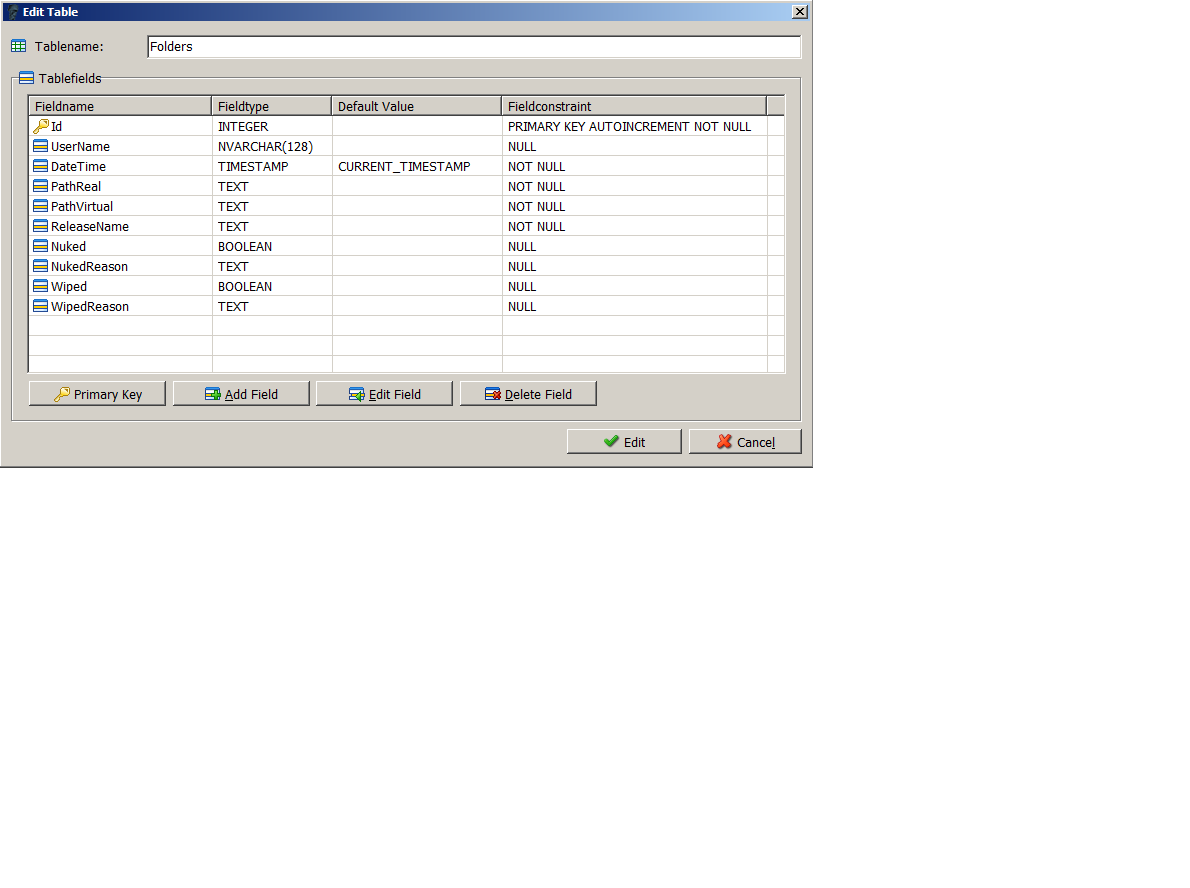
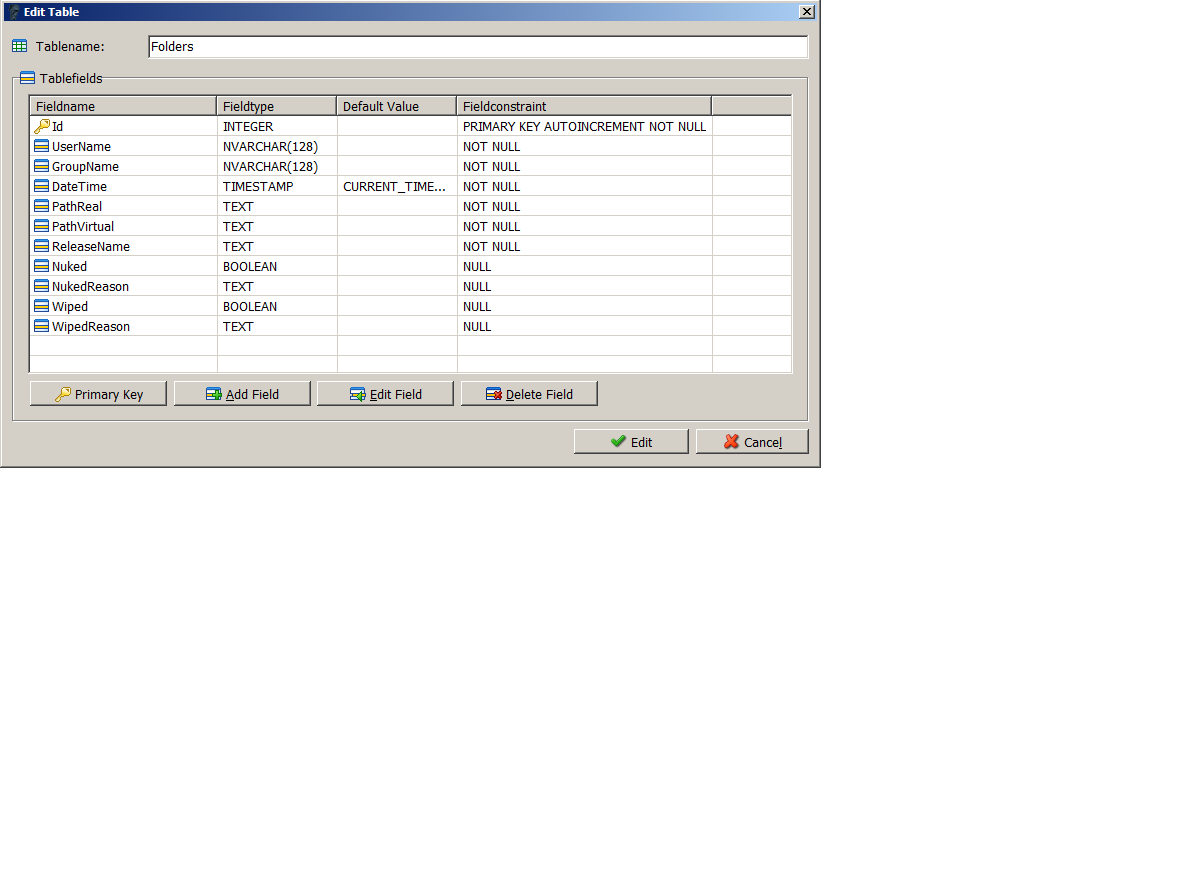
[ADD] Dupe check on NewDir and Dupe remove on DelDir

diff --git a/ioFTPD/jeza.ioFTPD.Framework/ConsoleAppTasks.cs b/ioFTPD/jeza.ioFTPD.Framework/ConsoleAppTasks.cs
@@ -39,7 +39,7 @@ namespace jeza.ioFTPD.Framework
 // ReSharper restore AssignNullToNotNullAttribute
         }
 
-        public void Execute(TaskType taskType)
+        public int Execute(TaskType taskType)
         {
             switch (taskType)
             {
@@ -63,11 +63,66 @@ namespace jeza.ioFTPD.Framework
                     ExecuteRequestTask();
                     break;
                 }
+                case TaskType.DupeNewDir:
+                {
+                    return ExecuteDupeNewDirTask() ? Constants.CodeOk : Constants.CodeFail;
+                }
+                case TaskType.DupeDelDir:
+                {
+                    return ExecuteDupeDelDirTask() ? Constants.CodeOk : Constants.CodeFail;
+                }
                 default:
                 {
                     throw new NotSupportedException("Unknown TaskType");
                 }
             }
+            return Constants.CodeOk;
+        }
+
+        private bool ExecuteDupeNewDirTask()
+        {
+            DirectoryInfo directoryInfo = new DirectoryInfo(args [1]);
+            string releaseName = directoryInfo.Name;
+            DataBaseDupe dataBaseDupe = DataBase.SelectFromDupe(String.Format("SELECT * FROM Folders WHERE ReleaseName = '{0}'", releaseName));
+            if (dataBaseDupe == null)
+            {
+                string userName = IoEnvironment.GetUserName();
+                string groupName = IoEnvironment.GetGroupName();
+                string insertCommand = String.Format(@"INSERT INTO Folders (UserName, GroupName, PathReal, PathVirtual, ReleaseName) VALUES('{0}', '{1}', '{2}', '{3}', '{4}')", userName, groupName, args [1], args [2], releaseName);
+                int rows = DataBase.Insert(insertCommand);
+                if (rows > 0)
+                {
+                    Log.Debug("INSERT new DUPE '{0}'", insertCommand);
+                    return true;
+                }
+                Log.Debug("INSERT of new DUPE FAILED! '{0}'", insertCommand);
+                return false;
+            }
+            Log.Debug("New dir is a dupe of '{0}'", dataBaseDupe.ToString());
+            Output output = new Output();
+            output.Client(output.FormatDupe(Config.ClientDupeNewDir, dataBaseDupe));
+            return false;
+        }
+
+        private bool ExecuteDupeDelDirTask()
+        {
+            DirectoryInfo directoryInfo = new DirectoryInfo(args [1]);
+            string releaseName = directoryInfo.Name;
+            DataBaseDupe dataBaseDupe = DataBase.SelectFromDupe(String.Format("SELECT * FROM Folders WHERE ReleaseName = '{0}'", releaseName));
+            if (dataBaseDupe == null)
+            {
+                return true;
+            }
+            Log.Debug("Removing dupe '{0}'", dataBaseDupe.ToString());
+            string deleteCommand = String.Format(@"DELETE FROM Folders WHERE ReleaseName = '{0}'", releaseName);
+            int rows = DataBase.ExecuteNonQuery(deleteCommand);
+            if (rows > 0)
+            {
+                Log.Debug("Removed dupe");
+                return true;
+            }
+            Log.Debug("DELETE of DUPE FAILED! '{0}'", deleteCommand);
+            return false;
         }
 
         private void ExecuteRequestTask()
@@ -111,7 +166,7 @@ namespace jeza.ioFTPD.Framework
                 }
                 return;
             }
-            if (args[0].ToLowerInvariant().Equals(Constants.RequestDel))
+            if (args [0].ToLowerInvariant().Equals(Constants.RequestDel))
             {
                 string requestName = args [1];
                 Log.Debug("REQUEST DEL '{0}'", requestName);
@@ -134,7 +189,7 @@ namespace jeza.ioFTPD.Framework
                 }
                 return;
             }
-            if (args[0].ToLowerInvariant().Equals(Constants.RequestFill))
+            if (args [0].ToLowerInvariant().Equals(Constants.RequestFill))
             {
                 string requestName = args [1];
                 Log.Debug("REQUEST FILL '{0}'", requestName);

diff --git a/ioFTPD/jeza.ioFTPD.Tests/Dupe/Sqlite.cs b/ioFTPD/jeza.ioFTPD.Tests/Dupe/Sqlite.cs
@@ -14,7 +14,7 @@ namespace jeza.ioFTPD.Tests.Dupe
         public void Insert()
         {
             string releasename = Guid.NewGuid().ToString();
-            string commandText = String.Format(@"INSERT INTO Folders (UserName, ReleaseName, PathReal, PathVirtual) VALUES('jeza', '{0}', 'c:\temp\{0}', '/temp/{0}')", releasename);
+            string commandText = String.Format(@"INSERT INTO Folders (UserName, GroupName, ReleaseName, PathReal, PathVirtual) VALUES('jeza', 'group', '{0}', 'c:\temp\{0}', '/temp/{0}')", releasename);
             int numberOfRows = DataBase.Insert(commandText);
             Assert.AreEqual(1, numberOfRows);
         }
@@ -29,7 +29,7 @@ namespace jeza.ioFTPD.Tests.Dupe
             string commandText = String.Format(@"SELECT * FROM Folders WHERE ReleaseName = '{0}'", releasename);
             DataBaseDupe dataBaseDupe = DataBase.SelectFromDupe(commandText);
             Assert.IsNull(dataBaseDupe);
-            commandText = String.Format(@"INSERT INTO Folders (UserName, ReleaseName, PathReal, PathVirtual) VALUES('jeza', '{0}', 'c:\temp\{0}', '/temp/{0}')", releasename);
+            commandText = String.Format(@"INSERT INTO Folders (UserName, GroupName, ReleaseName, PathReal, PathVirtual) VALUES('jeza', 'group', '{0}', 'c:\temp\{0}', '/temp/{0}')", releasename);
             int numberOfRows = DataBase.Insert(commandText);
             Assert.AreEqual(1, numberOfRows);
             commandText = String.Format(@"SELECT * FROM Folders WHERE ReleaseName = '{0}'", releasename);
@@ -48,7 +48,7 @@ namespace jeza.ioFTPD.Tests.Dupe
             string commandText = String.Format(@"SELECT * FROM Folders WHERE ReleaseName = '{0}'", releasename);
             DataBaseDupe dataBaseDupe = DataBase.SelectFromDupe(commandText);
             Assert.IsNull(dataBaseDupe);
-            commandText = String.Format(@"INSERT INTO Folders (UserName, ReleaseName, PathReal, PathVirtual) VALUES('jeza', '{0}', 'c:\temp\{0}', '/temp/{0}')", releasename);
+            commandText = String.Format(@"INSERT INTO Folders (UserName, GroupName, ReleaseName, PathReal, PathVirtual) VALUES('jeza', 'group', '{0}', 'c:\temp\{0}', '/temp/{0}')", releasename);
             int numberOfRows = DataBase.Insert(commandText);
             Assert.AreEqual(1, numberOfRows);
             const string nukedReason = "Nuked for some reason";
@@ -73,7 +73,7 @@ namespace jeza.ioFTPD.Tests.Dupe
             string commandText = String.Format(@"SELECT * FROM Folders WHERE ReleaseName = '{0}'", releasename);
             DataBaseDupe dataBaseDupe = DataBase.SelectFromDupe(commandText);
             Assert.IsNull(dataBaseDupe);
-            commandText = String.Format(@"INSERT INTO Folders (UserName, ReleaseName, PathReal, PathVirtual) VALUES('jeza', '{0}', 'c:\temp\{0}', '/temp/{0}')", releasename);
+            commandText = String.Format(@"INSERT INTO Folders (UserName, GroupName, ReleaseName, PathReal, PathVirtual) VALUES('jeza', 'group', '{0}', 'c:\temp\{0}', '/temp/{0}')", releasename);
             int numberOfRows = DataBase.Insert(commandText);
             Assert.AreEqual(1, numberOfRows);
             const string wipedReason = "Wiped for some reason";

diff --git a/ioFTPD/jeza.ioFTPD.Framework/DataBase.cs b/ioFTPD/jeza.ioFTPD.Framework/DataBase.cs
@@ -74,14 +74,15 @@ namespace jeza.ioFTPD.Framework
                                             {
                                                 Id = Misc.String2Number(itemArray [0].ToString()),
                                                 UserName = itemArray [1].ToString(),
-                                                DateTime = itemArray[2].ToString(),
-                                                PathReal = itemArray [3].ToString(),
-                                                PathVirtual = itemArray [4].ToString(),
-                                                ReleaseName = itemArray [5].ToString(),
-                                                Nuked = Misc.String2Number(itemArray [6].ToString()) > 0 ? true : false,
-                                                NukedReason = itemArray [7].ToString(),
-                                                Wiped = Misc.String2Number(itemArray[8].ToString()) > 0 ? true : false,
-                                                WipedReason = itemArray [9].ToString(),
+                                                GroupName = itemArray[2].ToString(),
+                                                DateTime = itemArray[3].ToString(),
+                                                PathReal = itemArray [4].ToString(),
+                                                PathVirtual = itemArray [5].ToString(),
+                                                ReleaseName = itemArray [6].ToString(),
+                                                Nuked = Misc.String2Number(itemArray [7].ToString()) > 0 ? true : false,
+                                                NukedReason = itemArray [8].ToString(),
+                                                Wiped = Misc.String2Number(itemArray[9].ToString()) > 0 ? true : false,
+                                                WipedReason = itemArray [10].ToString(),
                                             };
                 return dataBaseDupe;
             }

diff --git a/ioFTPD/jeza.ioFTPD.Framework/Output.cs b/ioFTPD/jeza.ioFTPD.Framework/Output.cs
@@ -457,6 +457,27 @@ namespace jeza.ioFTPD.Framework
             return formatCrc32;
         }
 
+        public string FormatDupe(string line, DataBaseDupe dataBaseDupe)
+        {
+            string formatDupe = MinimumLength(line) || dataBaseDupe == null
+                                     ? line
+                                     : String.Format(new MyFormat(), line
+                                                     , dataBaseDupe.Id// {0}
+                                                     , dataBaseDupe.UserName // {1}
+                                                     , dataBaseDupe.GroupName // {2}
+                                                     , dataBaseDupe.DateTime // {3}
+                                                     , dataBaseDupe.PathReal // {4}
+                                                     , dataBaseDupe.PathVirtual // {5}
+                                                     , dataBaseDupe.ReleaseName // {6}
+                                                     , dataBaseDupe.Nuked // {7}
+                                                     , dataBaseDupe.NukedReason // {8}
+                                                     , dataBaseDupe.Wiped // {9}
+                                                     , dataBaseDupe.WipedReason // {10}
+                                                     , Constants.CodeNewLine); //{11}
+            Log.Debug("FormatDupe: " + formatDupe);
+            return formatDupe;
+        }
+
         public string FormatWeeklyTask(string line, WeeklyTask weeklyTask)
         {
             string formatWeeklyTask = MinimumLength(line) || weeklyTask == null

diff --git a/ioFTPD/jeza.ioFTPD.Manager/Program.cs b/ioFTPD/jeza.ioFTPD.Manager/Program.cs
@@ -5,11 +5,12 @@ namespace jeza.ioFTPD.Manager
 {
     public class Program
     {
-        static void Main(string[] args)
+        public static int Main(string[] args)
         {
             Log.Debug("--------------------------------------------------------------");
             Log.Debug("Manager...");
             Log.Debug("args: '{0}'", Misc.ArgsToString(args));
+            int codeReturn = Constants.CodeOk;
             try
             {
                 int numberOfArguments = args.Length;
@@ -34,12 +35,24 @@ namespace jeza.ioFTPD.Manager
                     {
                         consoleAppTasks.Execute(TaskType.Request);
                     }
+                    //args: 'args[0]='newdir', args[1]='D:\temp\testasd', args[2]='/temp/testasd''
+                    if (firstArgument.Equals("newdir"))
+                    {
+                        codeReturn = consoleAppTasks.Execute(TaskType.DupeNewDir);
+                    }
+                    //args: 'args[0]='deldir', args[1]='D:\temp\testasd', args[2]='/temp/testasd''
+                    if (firstArgument.Equals("deldir"))
+                    {
+                        codeReturn = consoleAppTasks.Execute(TaskType.DupeDelDir);
+                    }
                 } 
             }
             catch (Exception exception)
             {
                 Log.Debug(exception.ToString());
+                codeReturn = Constants.CodeFail;
             }
+            return codeReturn;
         }
     }
 }

diff --git a/ioFTPD/jeza.ioFTPD.Framework/DataBaseDupe.cs b/ioFTPD/jeza.ioFTPD.Framework/DataBaseDupe.cs
@@ -4,6 +4,7 @@ namespace jeza.ioFTPD.Framework
     {
         public int Id { get; set; }
         public string UserName { get; set; }
+        public string GroupName { get; set; }
         public string DateTime { get; set; }
         public string PathReal { get; set; }
         public string PathVirtual { get; set; }
@@ -12,5 +13,10 @@ namespace jeza.ioFTPD.Framework
         public string NukedReason { get; set; }
         public bool Wiped { get; set; }
         public string WipedReason { get; set; }
+
+        public override string ToString()
+        {
+            return string.Format("Id: {0}, UserName: {1}, GroupName: {2}, DateTime: {3}, PathReal: {4}, PathVirtual: {5}, ReleaseName: {6}, Nuked: {7}, NukedReason: {8}, Wiped: {9}, WipedReason: {10}", Id, UserName, GroupName, DateTime, PathReal, PathVirtual, ReleaseName, Nuked, NukedReason, Wiped, WipedReason);
+        }
     }
 }

diff --git a/ioFTPD/jeza.ioFTPD.Tests/Dupe/NewDir.cs b/ioFTPD/jeza.ioFTPD.Tests/Dupe/NewDir.cs
@@ -1,0 +1,19 @@
+using jeza.ioFTPD.Framework;
+using MbUnit.Framework;
+
+namespace jeza.ioFTPD.Tests.Dupe
+{
+    [TestFixture]
+    public class NewDir
+    {
+        /// <summary>
+        /// Create new dir and add it to dupe DB.
+        /// </summary>
+        [Test]
+        public void AddNew()
+        {
+            ConsoleAppTasks task = new ConsoleAppTasks(new[] {"newdir", @"..\..\TestFiles", "/test/TestFiles"});
+            task.Execute(TaskType.DupeNewDir);
+        }
+    }
+}

diff --git a/ioFTPD/jeza.ioFTPD.Framework/Config.cs b/ioFTPD/jeza.ioFTPD.Framework/Config.cs
@@ -41,6 +41,11 @@ namespace jeza.ioFTPD.Framework
 
         public const string DefaultNamespace = "http://jeza.ioFTPD.Tools/XMLSchema.xsd";
 
+        public static string ClientDupeNewDir
+        {
+            get { return GetKeyValue("ClientDupeNewDir"); }
+        }
+
         public static string RequestFolder
         {
             get { return GetKeyValue("RequestFolder"); }

diff --git a/ioFTPD/jeza.ioFTPD.Framework/Constants.cs b/ioFTPD/jeza.ioFTPD.Framework/Constants.cs
@@ -64,5 +64,9 @@ namespace jeza.ioFTPD.Framework
         public const string WeeklyCheck = "check";
 
         public const string DataSource = "Data Source=Dupe\\jeza.ioFTPD.Dupe.s3db";
+
+        public const int CodeOk = 0;
+        public const int CodeFail = 1;
+    
     }
 }

diff --git a/ioFTPD/jeza.ioFTPD.Framework/TaskType.cs b/ioFTPD/jeza.ioFTPD.Framework/TaskType.cs
@@ -6,5 +6,7 @@ namespace jeza.ioFTPD.Framework
         NewDay,
         Weekly,
         Request,
+        DupeNewDir,
+        DupeDelDir,
     }
 }
